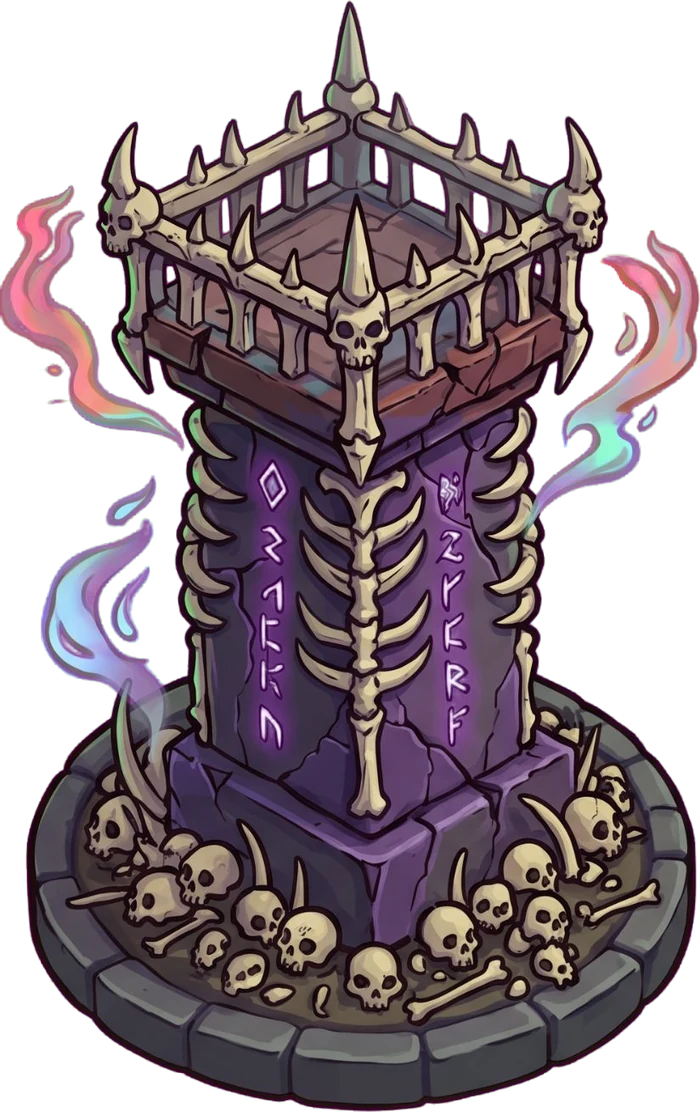
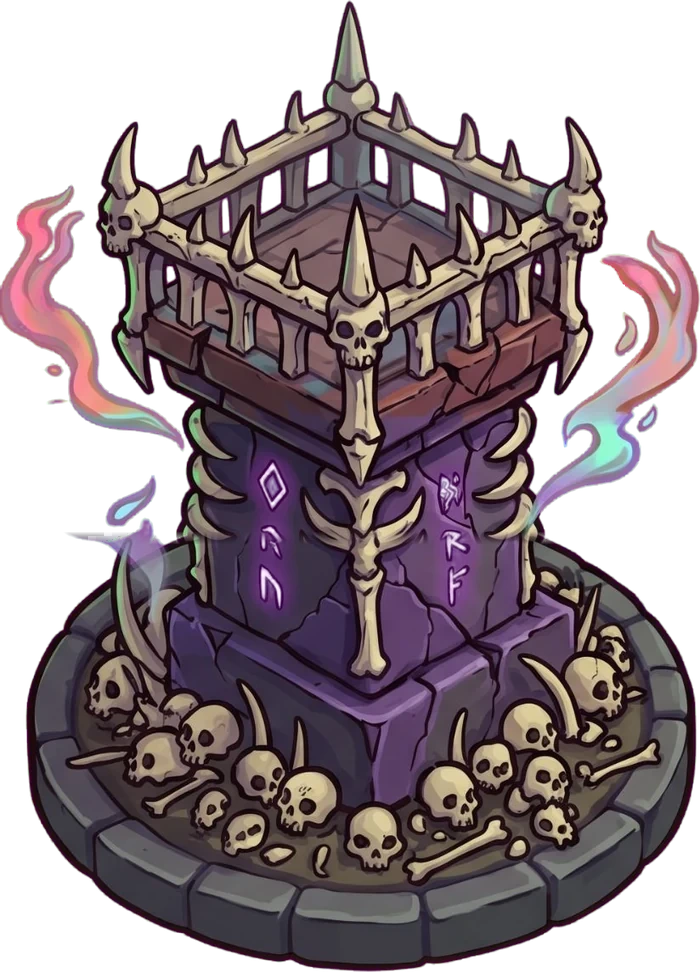
Balista hedefe döner (döner tabla + mil, yay/kaide katmanı); Hayalet Okçular kulesi kısa ve %10 küçük

diff --git a/sinir-kalesi/index.html b/sinir-kalesi/index.html
@@ -13,7 +13,7 @@
 <canvas id="game" aria-label="Sınır Kalesi oyun alanı"></canvas>
 <script>
   // Sürüm damgası: her yayında artırılır; tarayıcı eski önbellek kopyasını kullanmaz (js ve görseller).
-  window.SURUM = '260';
+  window.SURUM = '261';
   for (const f of ['js/dil.js', 'js/data.js', 'js/game.js']) document.write('<script src="' + f + '?v=' + window.SURUM + '"><\/script>');
 </script>
 

diff --git a/sinir-kalesi/yayin.html b/sinir-kalesi/yayin.html
@@ -13,6 +13,6 @@
 <canvas id="game" aria-label="Sınır Kalesi oyun alanı"></canvas>
 <script>
   // Sürüm damgası: her yayında artırılır; tarayıcı eski önbellek kopyasını kullanmaz (js ve görseller).
-  window.SURUM = '260';
+  window.SURUM = '261';
   for (const f of ['js/dil.js', 'js/data.js', 'js/game.js']) document.write('<script src="' + f + '?v=' + window.SURUM + '"><\/script>');
 </script>

diff --git a/varliklar/balista_katman.py b/varliklar/balista_katman.py
@@ -1,5 +1,6 @@
 """Kemik Balistası görselini katmanlara ayırır (kodla animasyon için):
-  tower_archer_nail_base.webp  : mızrak ve iki kiriş silinmiş, boşluğu çevreden yayılarak doldurulmuş gövde
+  tower_archer_nail_top.webp   : dönen yay (mızrak ve kirişler silinmiş, boşluk doldurulmuş)
+  tower_archer_nail_ped.webp   : kaide (kesim çizgisinin altı)
   tower_archer_nail_spear.webp : yalnız mızrak (tüy + şaft + alevli uç), aynı tuval boyutunda (konum korunur)
   balista.json                  : kiriş uçları, gez noktası, mızrak ekseni (görsele göre 0..1)
 Noktalar görselin piksel ölçüsüyle (700x773) elle ölçüldü."""
@@ -79,7 +80,14 @@ out[np.isin(lab, [i + 1 for i in range(n) if sz[i] < 400])] = 0
 r2, g2, b2 = out[..., 0], out[..., 1], out[..., 2]
 pink = hole & (r2 > 150) & (b2 > 90) & (g2 < 90)
 out[pink, :3] = [70, 50, 80]
-Image.fromarray(out.astype(np.uint8)).save(os.path.join(IMG, 'tower_archer_nail_base.webp'), 'WEBP', quality=92)
+# yay (dönen kısım) ve kaide ayrılır: kesim çizgisinin üstü yay; kaidenin üst yüzünü oyunda döner tabla (kod) örter
+CUT = [(0, 340), (200, 329), (395, 326), (445, 312), (487, 300), (490, 246), (700, 246)]
+cx = np.array([c[0] for c in CUT], float); cy = np.array([c[1] for c in CUT], float)
+cut = np.interp(np.arange(W), cx, cy)[None, :]
+top = out.copy(); top[yy >= cut] = 0
+ped = out.copy(); ped[yy < cut] = 0
+Image.fromarray(top.astype(np.uint8)).save(os.path.join(IMG, 'tower_archer_nail_top.webp'), 'WEBP', quality=92)
+Image.fromarray(ped.astype(np.uint8)).save(os.path.join(IMG, 'tower_archer_nail_ped.webp'), 'WEBP', quality=92)
 f = lambda p: [round(p[0] / W, 4), round(p[1] / H, 4)]
 json.dump({'nock': f(NOCK), 'tip': f(TIP), 'armUp': f(ARM_UP), 'armLo': f(ARM_LO)}, open(os.path.join(IMG, 'balista.json'), 'w'))
 print('ok', W, H, int(spear.sum()), int(strings.sum()))

diff --git a/varliklar/kule_kisalt.py b/varliklar/kule_kisalt.py
@@ -1,0 +1,16 @@
+"""Kuleyi gövdesinden dilim çıkararak kısaltır (ölçeklemeden; üst platform ve kaide aynı kalır).
+python3 varliklar/kule_kisalt.py <girdi.webp> <çıktı.webp> <y0> <y1> [harman=14]
+y0..y1 arası satırlar çıkarılır; dikiş y0 öncesi ve y1 sonrası şeritler harmanlanarak gizlenir."""
+import sys
+import numpy as np
+from PIL import Image
+src, dst, y0, y1 = sys.argv[1], sys.argv[2], int(sys.argv[3]), int(sys.argv[4])
+B = int(sys.argv[5]) if len(sys.argv) > 5 else 14
+A = np.array(Image.open(src).convert('RGBA')).astype(np.float32)
+top, bot = A[:y0].copy(), A[y1:].copy()
+# harman: üst parçanın son B satırı ile alt parçanın (y1-B..y1) satırları yumuşakça birbirine geçer
+w = np.linspace(0, 1, B)[:, None, None]
+top[-B:] = top[-B:] * (1 - w) + A[y1 - B:y1] * w
+out = np.concatenate([top, bot], 0)
+Image.fromarray(np.clip(out, 0, 255).astype(np.uint8)).save(dst, 'WEBP', quality=92)
+print(out.shape[1], out.shape[0])
